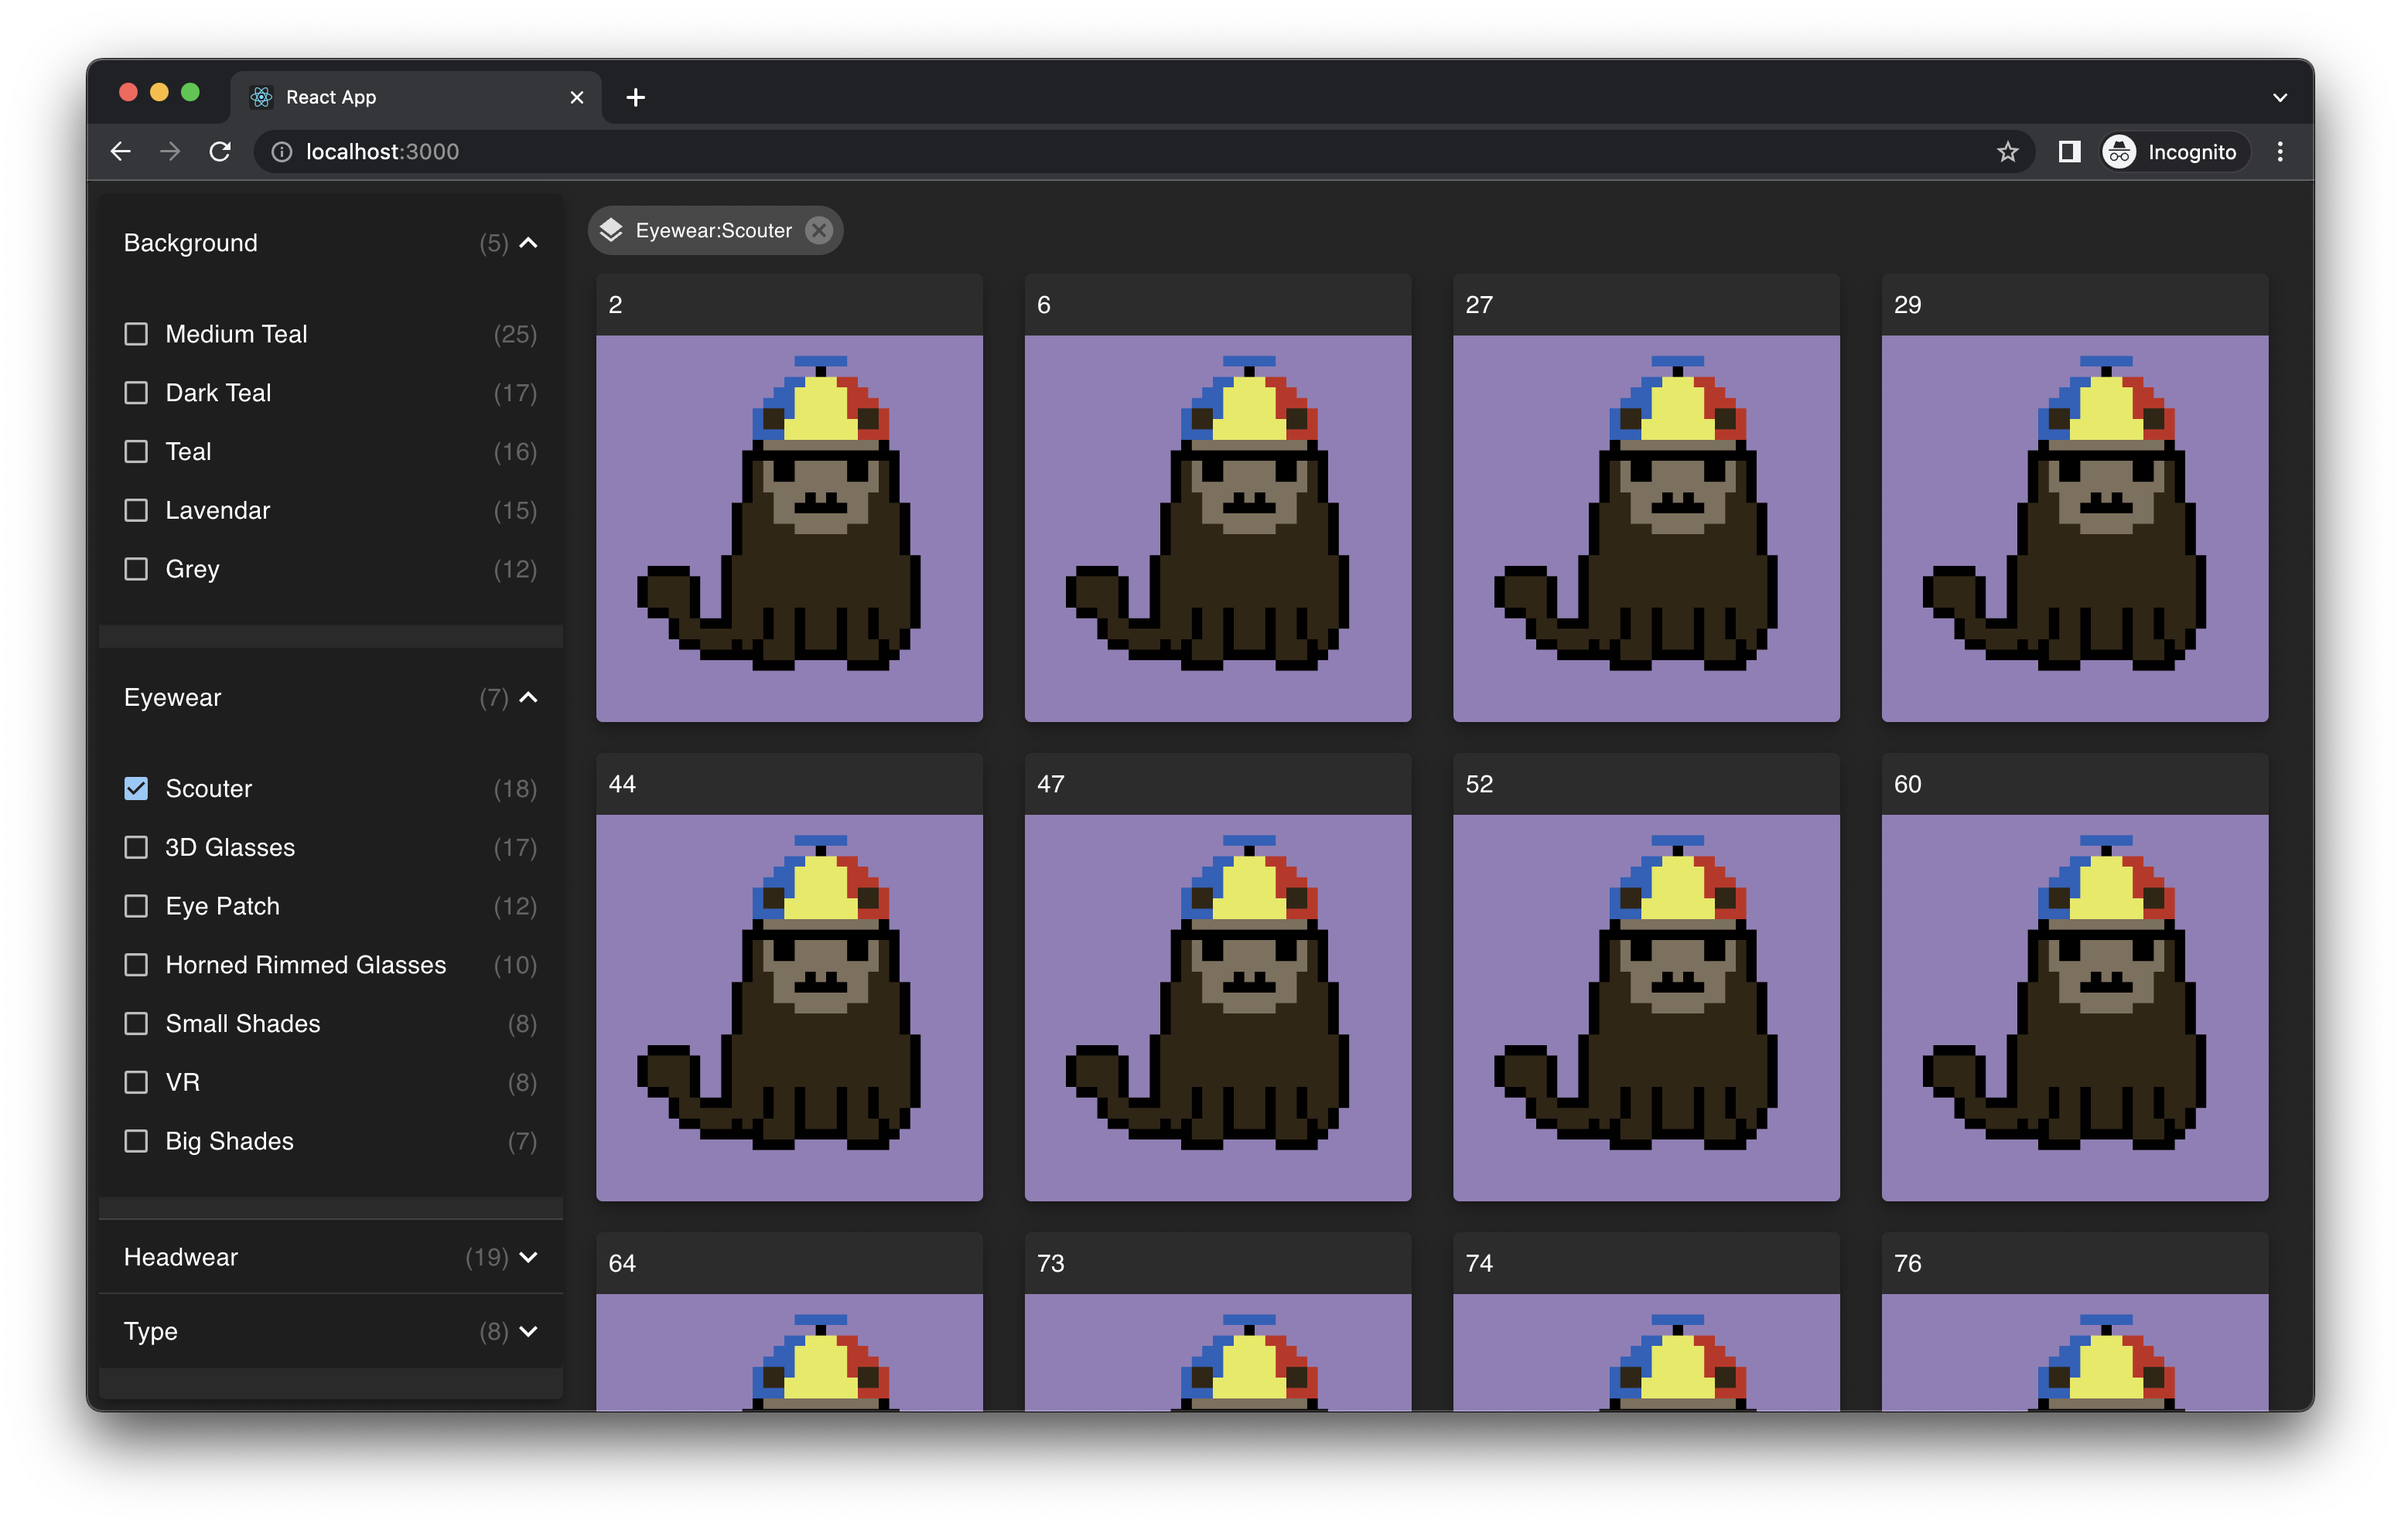
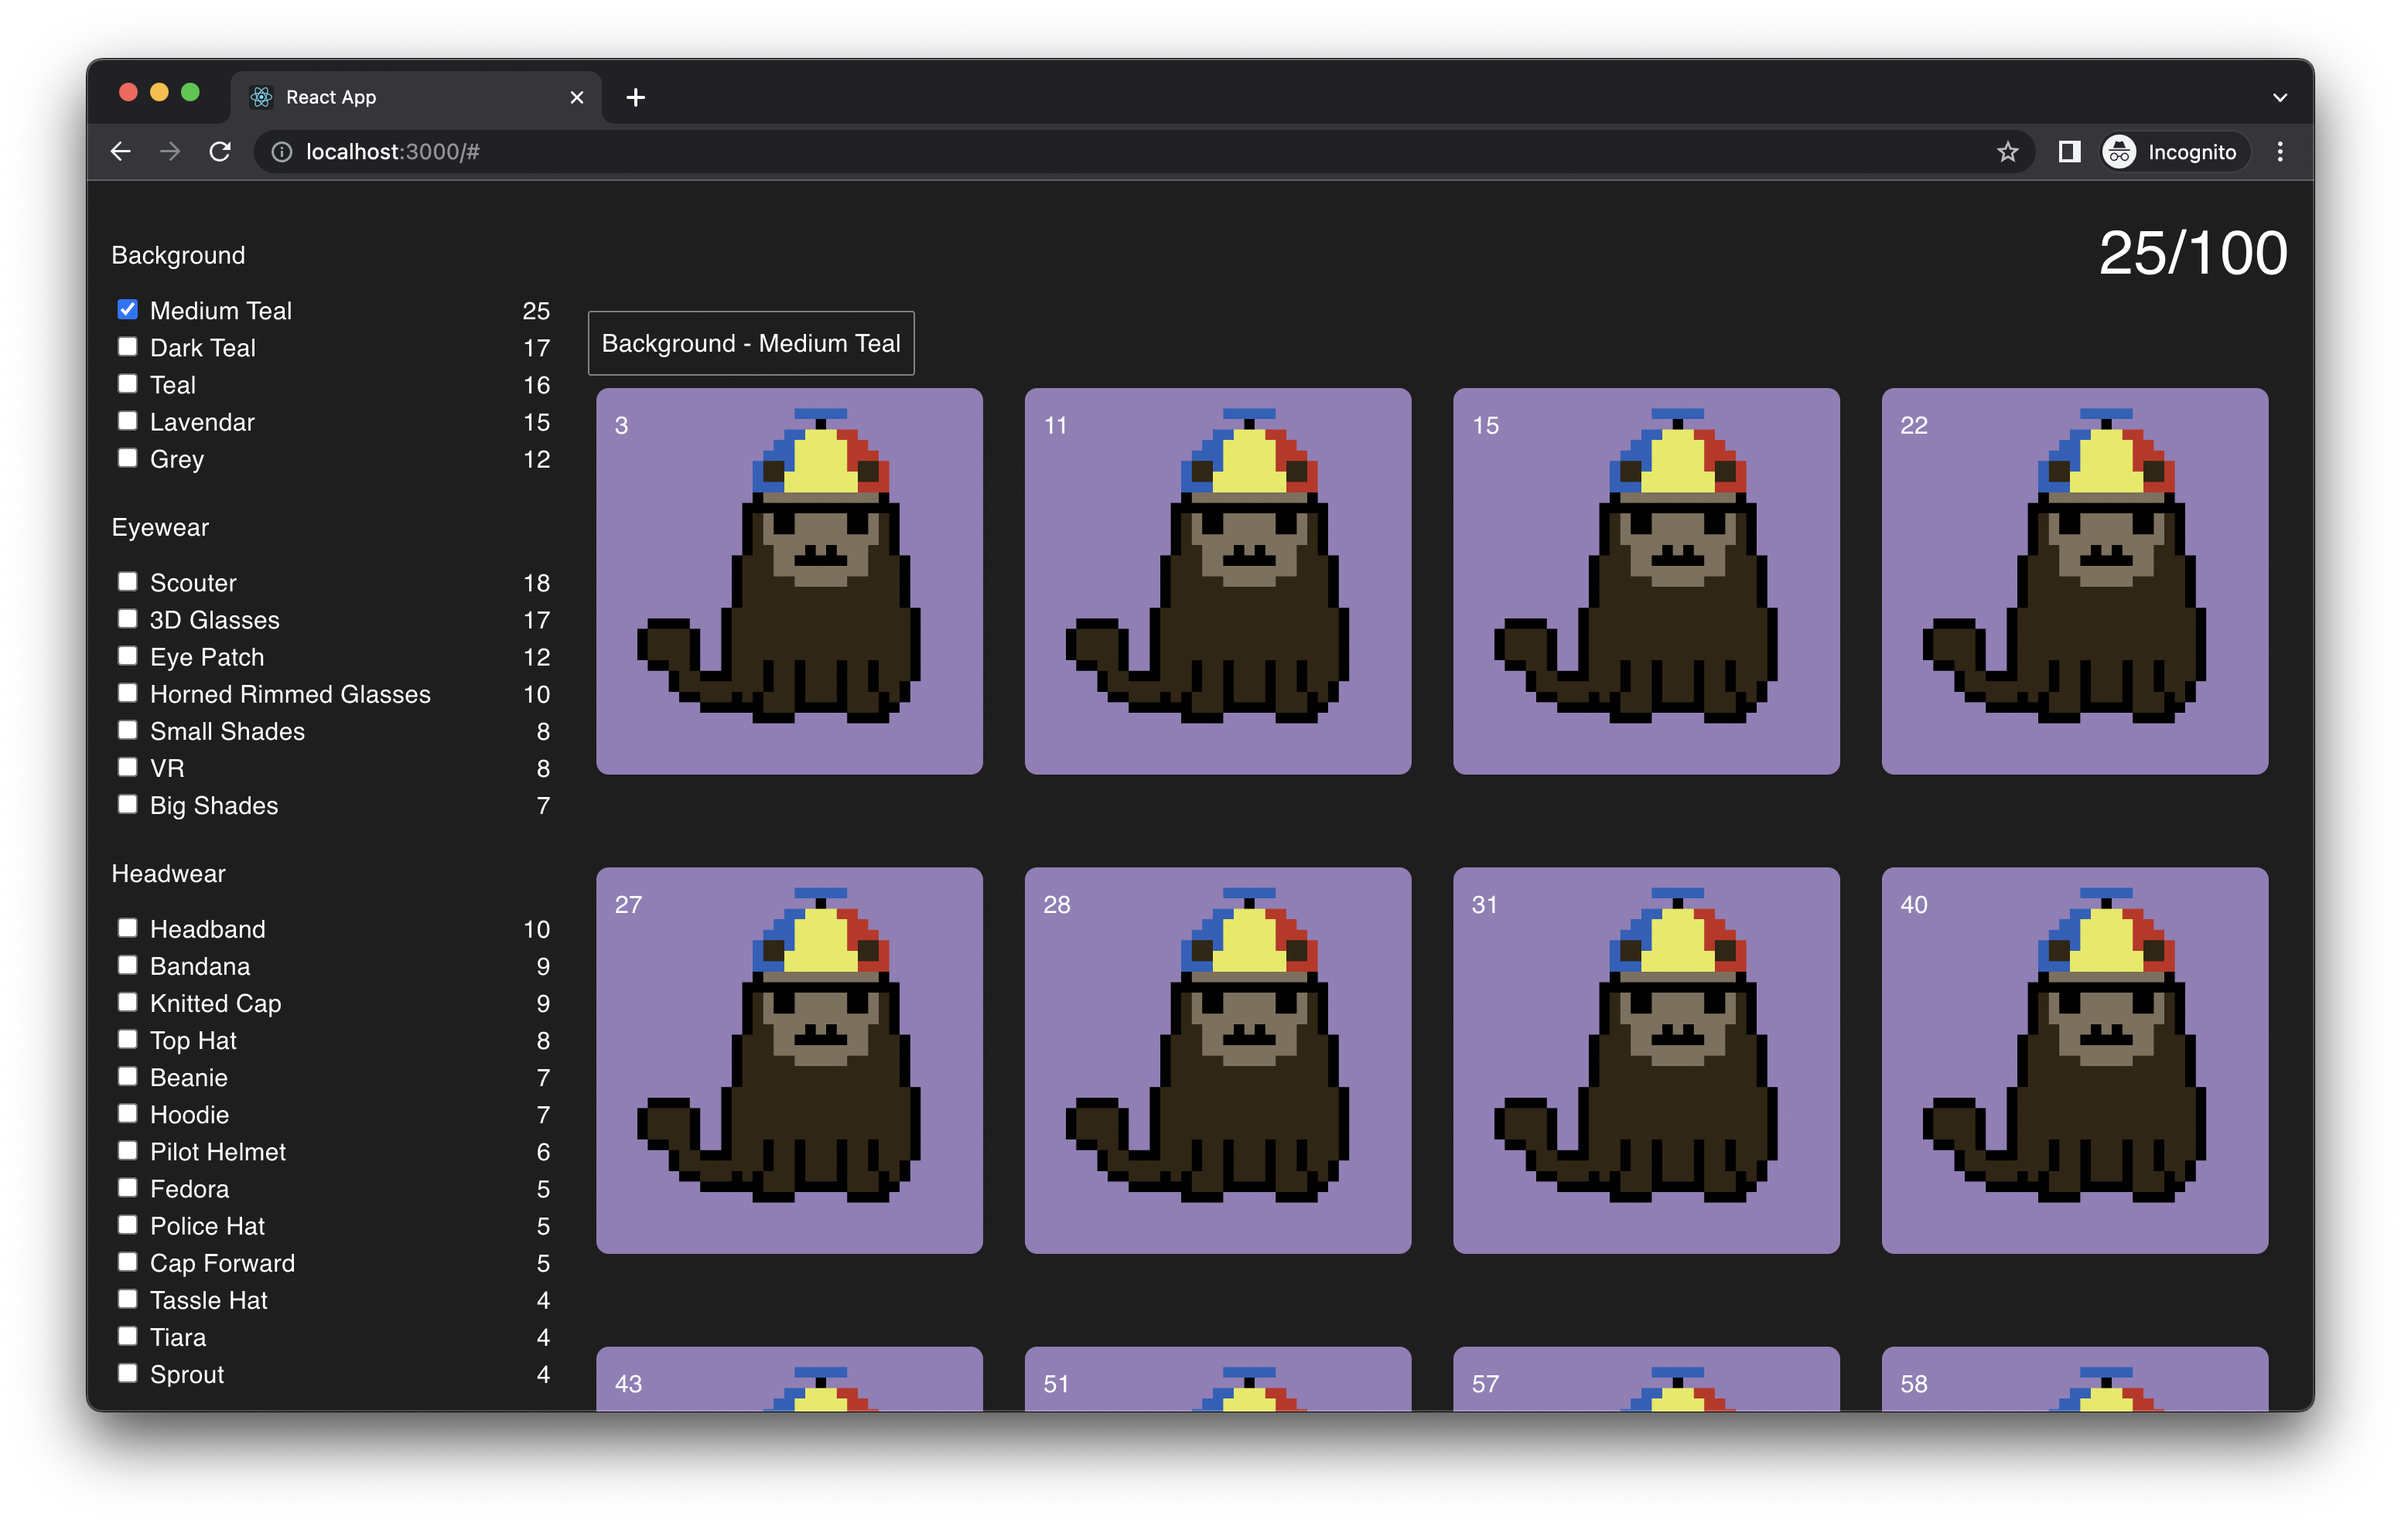
docs(readme.md): add instructions for customization

diff --git a/README.md b/README.md
@@ -1,10 +1,6 @@
 # NFT Collection Gallery
 
-This is a codebase spinned out of GENGEN for viewing all your tokens in a gallery with Trait Filters.
-
-At the moment, this code is heavily coupled with MUI. If there is a community desire to decouple it, please let me know in the issues.
-
-![GENGEN NFT Gallery](https://raw.githubusercontent.com/tansanDOTeth/gengen-nft-gallery/main/.github/images/gengen-nft-gallery-preview.png)
+This is a codebase spun out from GENGEN for viewing all your tokens in a gallery with Trait Filters. The default design is basic HTML/CSS and allows easy customization.
 
 # Install
 
@@ -83,6 +79,39 @@ Trait C = [Variation D, Variation E]
 
 Trait A && Trait B && Trait C = (Variation A || Variation B) && (Variation C) && (Variation D || Variation E)
 ```
+
+# Customization
+
+There are 4 props available in `CollectionGallery` for you to customize your gallery.
+
+- GalleryLayout
+- FiltersLayout
+- TokensLayout
+- CurrentFiltersLayout
+
+Here is an oversimplified usage example. If you pass in a basic "hello world" into `GalleryLayout` then you will complete overwrite everything. Obviously, you wouldn't do that, but it should help you understand how the basic idea of customization. I would suggest looking at the respective default components as examples.
+
+```javascript
+
+const HelloWorld = () => "HelloWorld"
+
+<CollectionGallery GalleryLayout={HelloWorld} />
+
+```
+
+You can refer to the default components of each one to get an idea for how to customize. It should be very straight forward for any React developer.
+
+- DefaultGalleryLayout
+- DefaultFiltersLayout
+- DefaultTokensLayout
+- DefaultCurrentFiltersLayout
+
+# Gallery Themes
+
+WIP - I will be extracting out the original MUI theme into a separate repo and then updating this readme with instructions.
+
+Here's how the gallery would look like with MUI.
+![GENGEN NFT Gallery](https://raw.githubusercontent.com/tansanDOTeth/gengen-nft-gallery/main/.github/images/gengen-nft-gallery-preview.png)
 
 # Contribution
 
